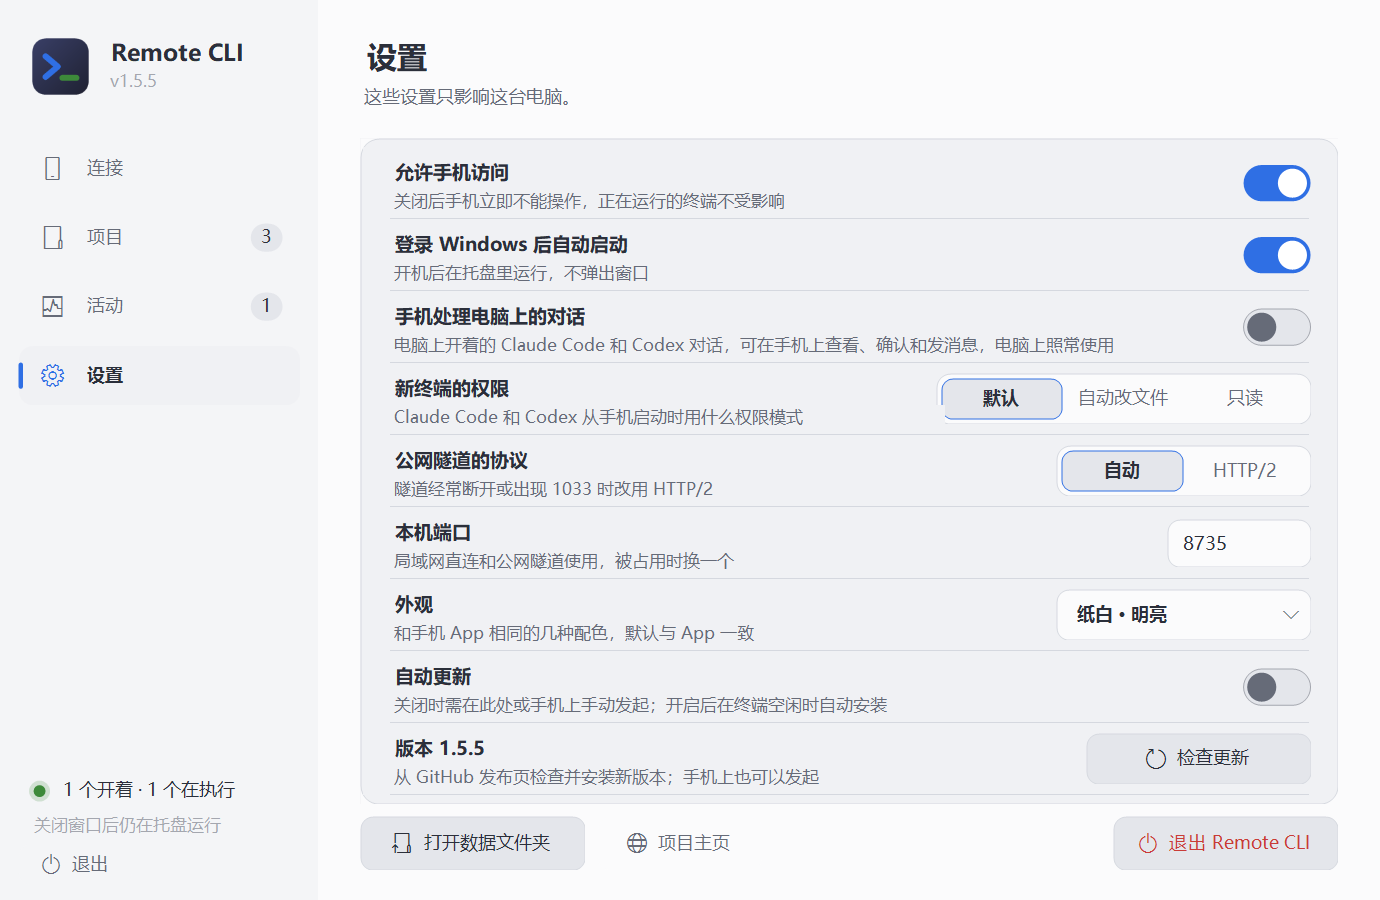
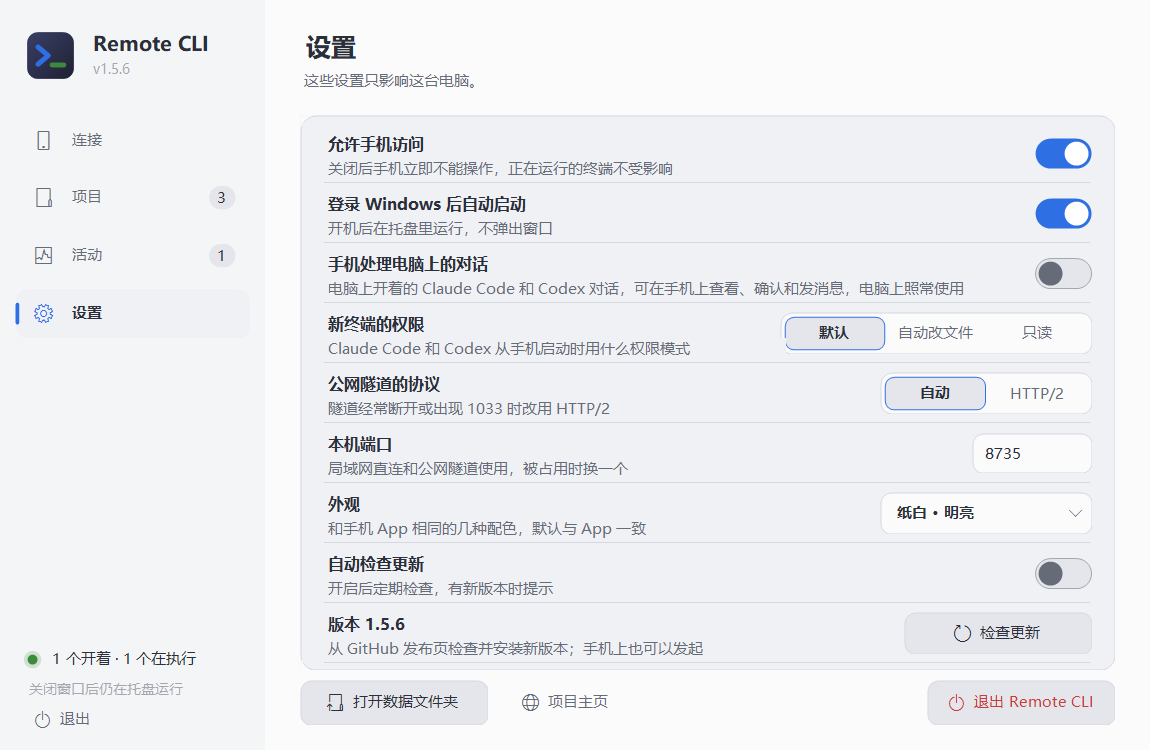
chore(release): 1.5.6; the pictures of the window drawn anew

diff --git a/agent-windows/Setup.cs b/agent-windows/Setup.cs
@@ -15,7 +15,7 @@ namespace RemoteCli {
 ///   --quiet            no questions and no start afterwards
 ///   --dir <folder>     where to install (default: the folder of an earlier installation, else %LOCALAPPDATA%\Programs\RemoteCli)
 public static class Setup {
-    const string Version = "1.5.5", Name = "Remote CLI";
+    const string Version = "1.5.6", Name = "Remote CLI";
     // REMOTECLI_SETUP_SANDBOX=1 is for the tests: its own registry entry and shortcut names, and no look at a running
     // copy, so trying the installer never touches a real installation.
     static readonly bool Sandbox = Environment.GetEnvironmentVariable("REMOTECLI_SETUP_SANDBOX") == "1";

diff --git a/agent-windows/RemoteCliApp.cs b/agent-windows/RemoteCliApp.cs
@@ -22,7 +22,7 @@ namespace RemoteCli {
 /// The program on the computer: a small window and a tray icon around the relay, the optional tunnel and the
 /// terminal agent. Everything it starts ends when it exits.
 public sealed partial class App : Form {
-    const string Version = "1.5.5";
+    const string Version = "1.5.6";
     const string TunnelDownload = "https://github.com/cloudflare/cloudflared/releases/latest/download/cloudflared-windows-amd64.exe";
     readonly string appDir = AppDomain.CurrentDomain.BaseDirectory.TrimEnd('\\');
     readonly string dataDir = TerminalAgent.DefaultData;

diff --git a/tools/package_windows.py b/tools/package_windows.py
@@ -13,7 +13,7 @@ import zipfile
 from pathlib import Path
 
 ROOT = Path(__file__).resolve().parents[1]
-VERSION = "1.5.5"
+VERSION = "1.5.6"
[1 lines of base64/hex data omitted]
 # Parts of the embeddable Python the relay never loads.
 UNUSED = ("_msi.pyd", "_sqlite3.pyd", "sqlite3.dll", "_elementtree.pyd", "pyexpat.pyd", "_wmi.pyd", "_zoneinfo.pyd", "winsound.pyd",

diff --git a/relay/server.py b/relay/server.py
@@ -27,7 +27,7 @@ sys.path.insert(0, os.path.dirname(os.path.abspath(__file__)))   # an embedded P
 import relay  # noqa: E402
 import websocket  # noqa: E402
 
-VERSION = "1.5.5"
+VERSION = "1.5.6"
 SESSION_DAYS = 90
 LOGIN_TRIES, LOGIN_LOCK, LOGIN_TRIES_ALL = 6, 900, 40
 BODY_LIMIT = 4 * 1024 * 1024
